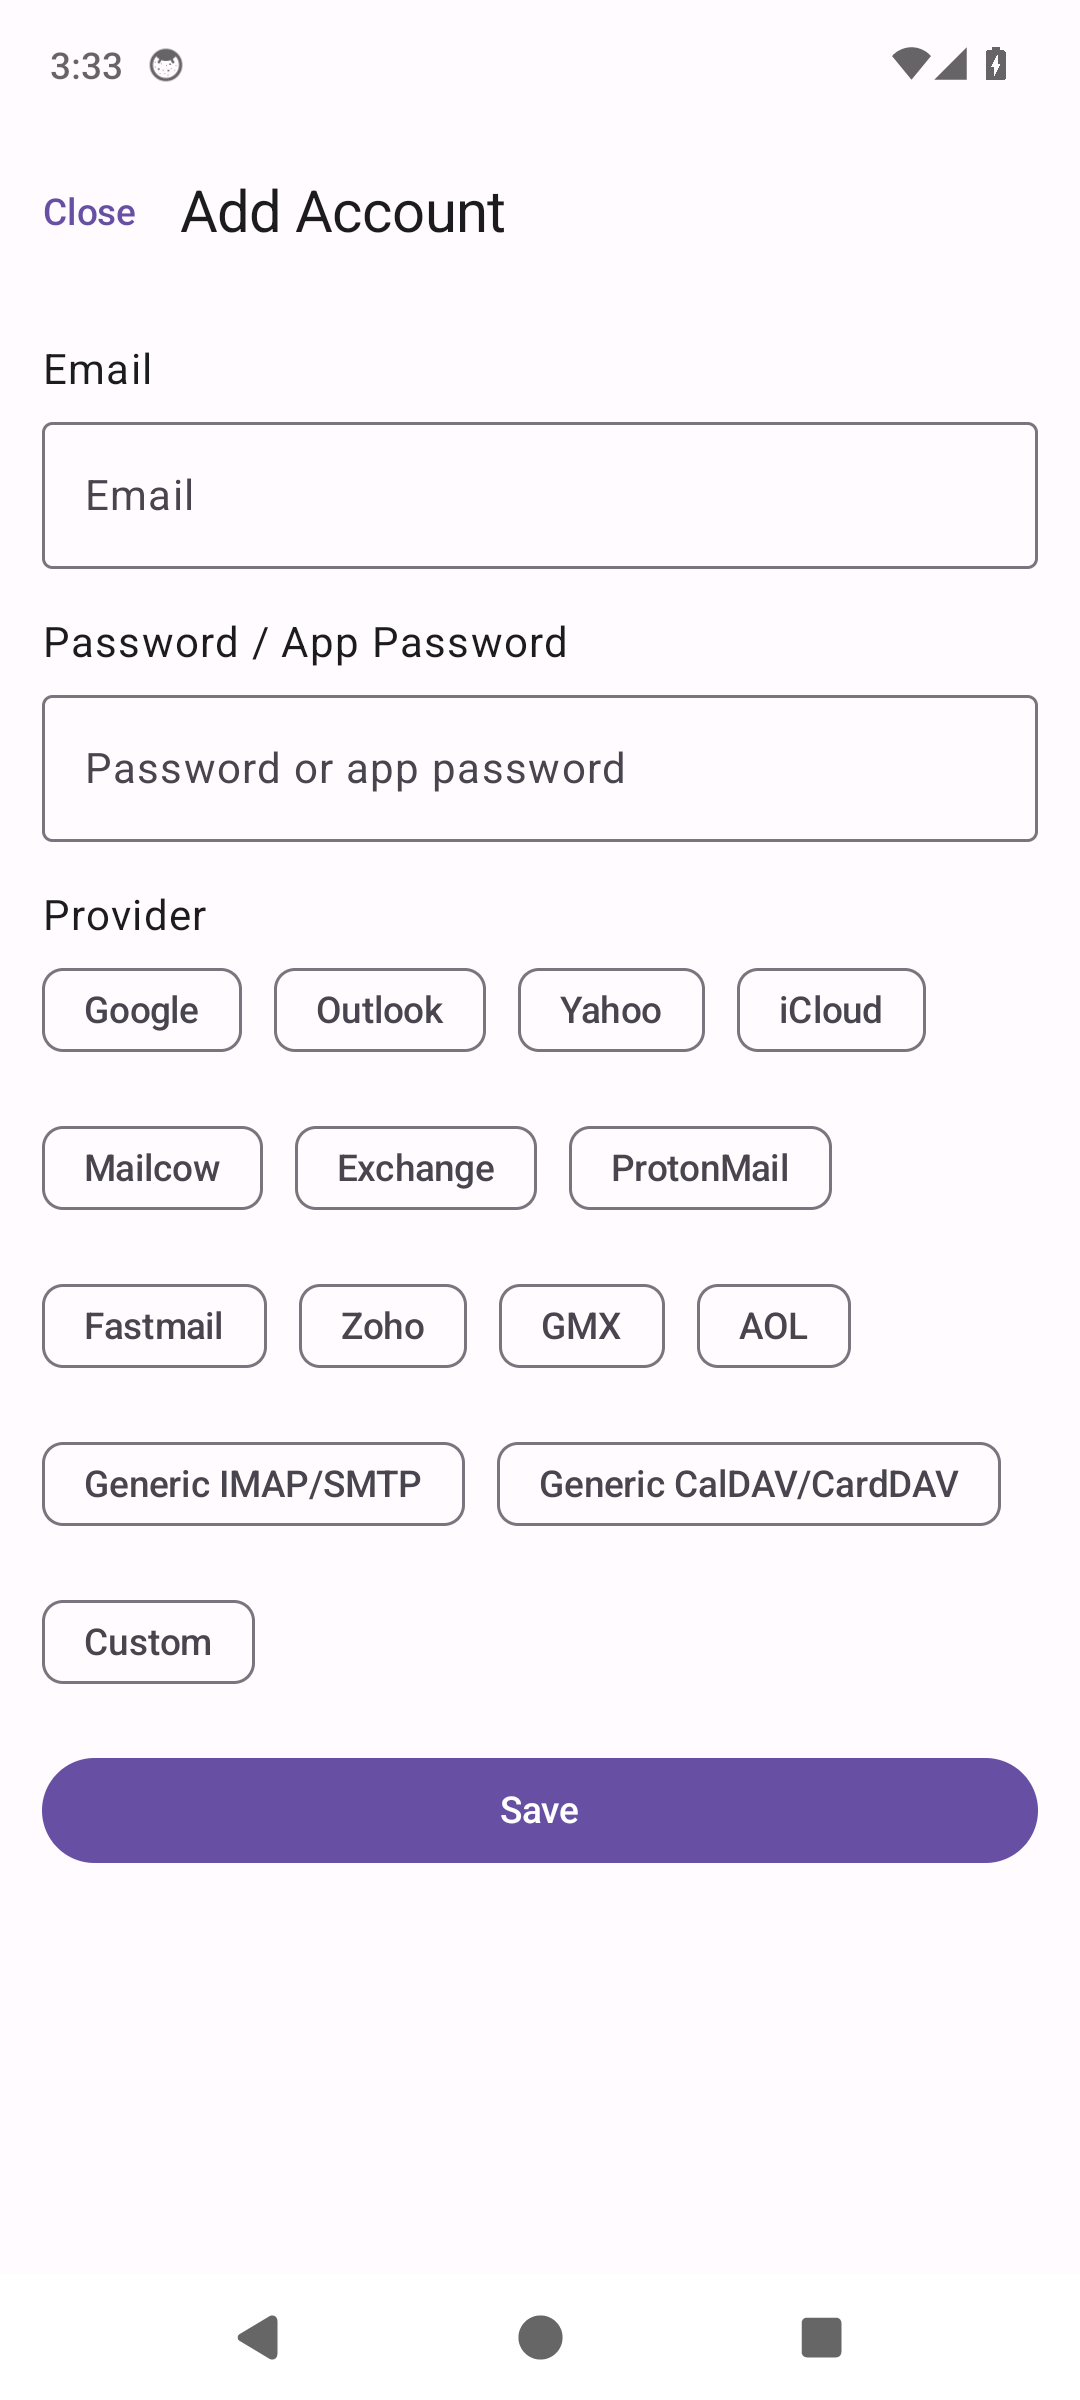
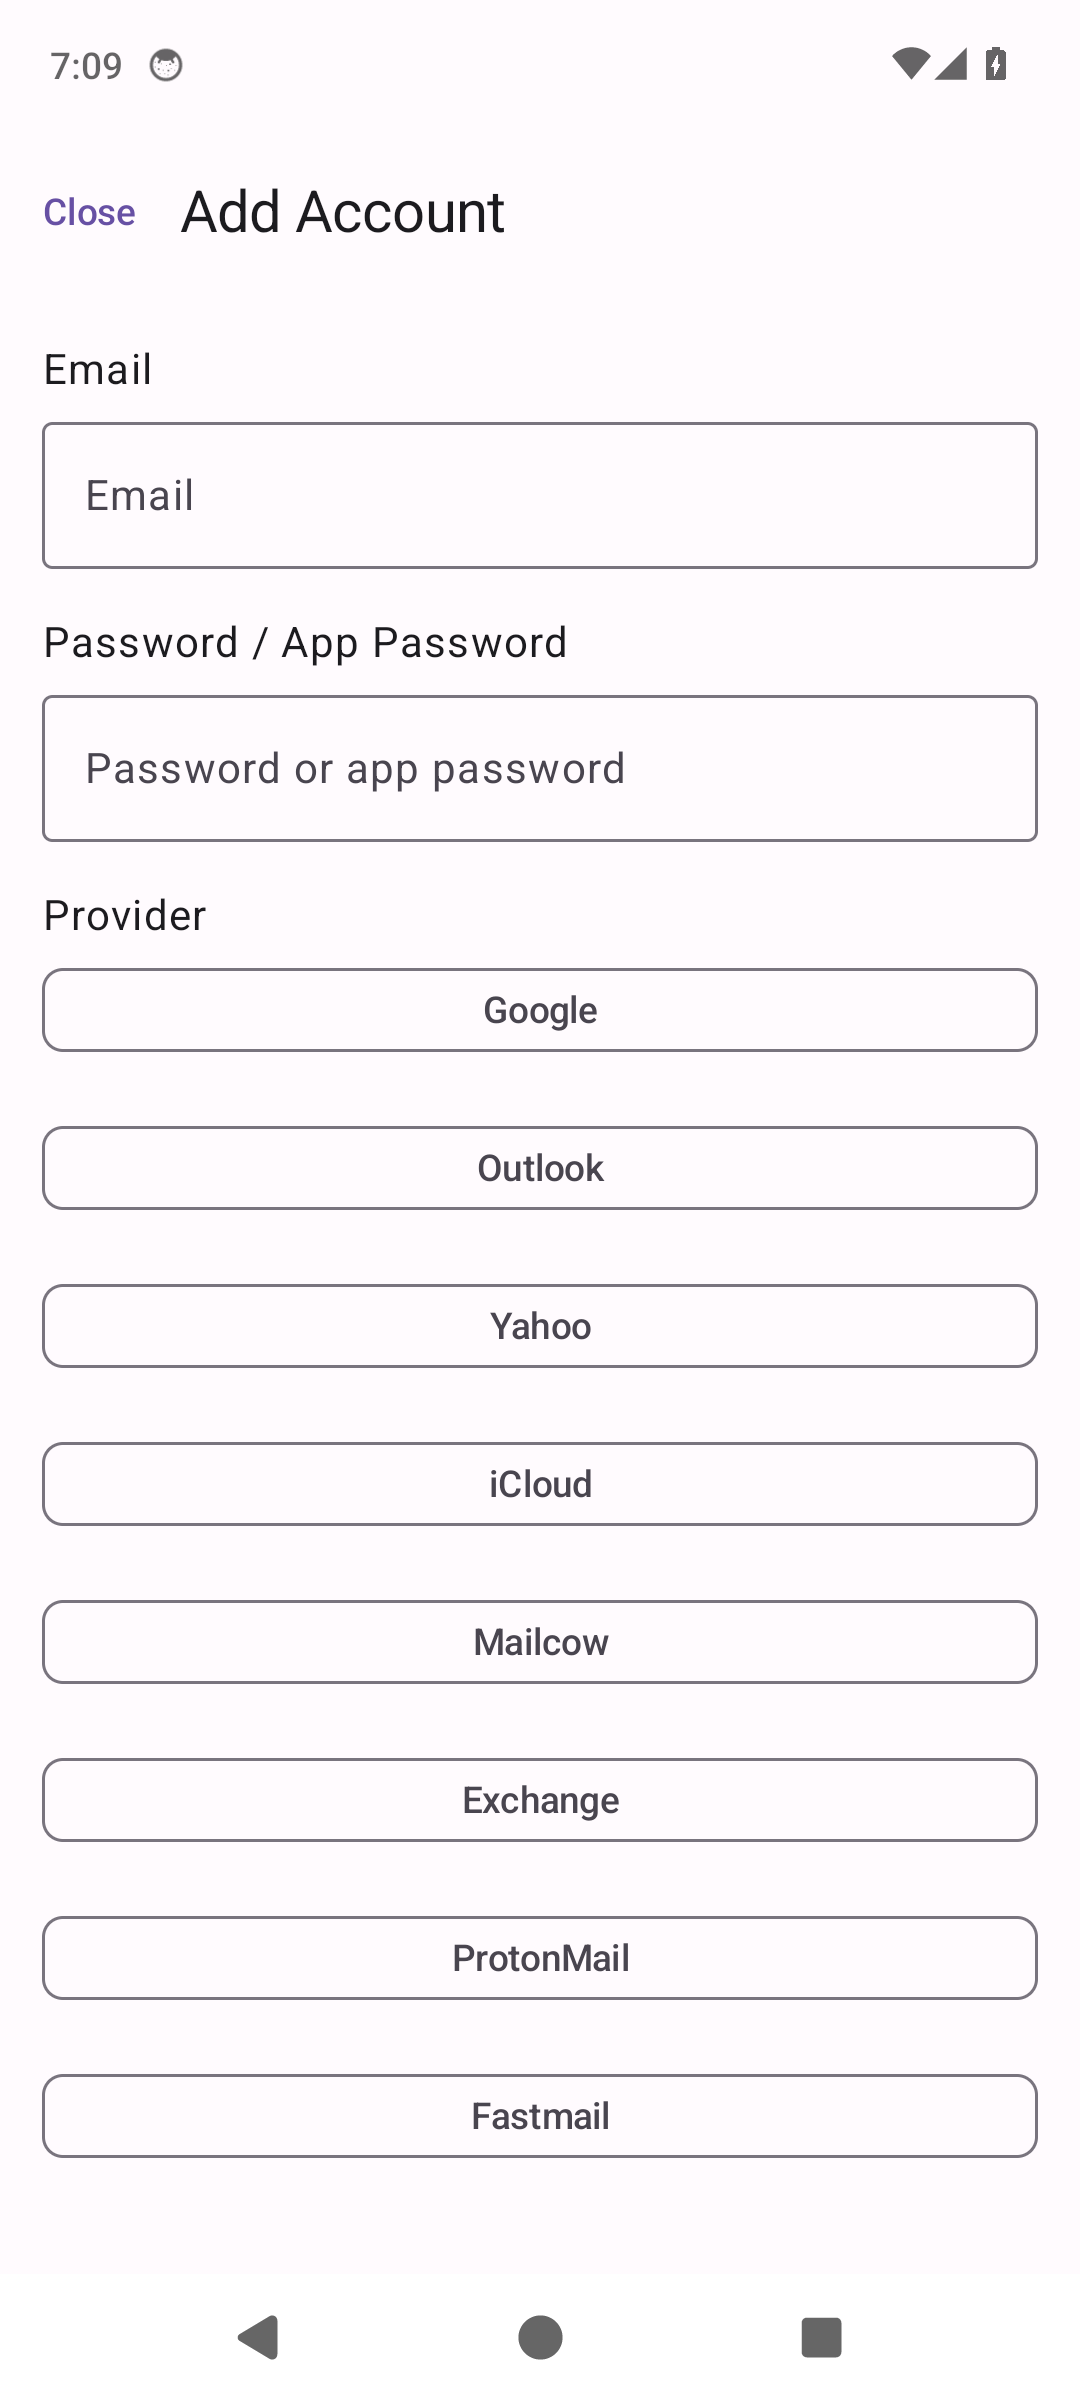
ui(polish): center chip/button text; uniform provider chip grid
- Provider FilterChip labels centered + uniform min-width (112.dp) -> tidy grid.
- Task filter chip labels centered.
- 'Server settings found' banner text centered.
Verified via ScreenshotGalleryTest (uc_05, uc_08, uc_12) on emulator-5556.

diff --git a/app/src/main/java/com/unifiedcomms/ui/main/AddAccountScreen.kt b/app/src/main/java/com/unifiedcomms/ui/main/AddAccountScreen.kt
@@ -6,11 +6,13 @@ import androidx.compose.foundation.background
 import androidx.compose.foundation.border
 import androidx.compose.foundation.clickable
 import androidx.compose.foundation.layout.Arrangement
+import androidx.compose.foundation.layout.Box
 import androidx.compose.foundation.layout.Column
 import androidx.compose.foundation.layout.ExperimentalLayoutApi
 import androidx.compose.foundation.layout.FlowRow
 import androidx.compose.foundation.layout.Row
 import androidx.compose.foundation.layout.Spacer
+import androidx.compose.foundation.layout.defaultMinSize
 import androidx.compose.foundation.layout.fillMaxSize
 import androidx.compose.foundation.layout.fillMaxWidth
 import androidx.compose.foundation.layout.height
@@ -49,6 +51,7 @@ import androidx.compose.ui.text.font.FontWeight
 import androidx.compose.ui.text.input.ImeAction
 import androidx.compose.ui.text.input.KeyboardType
 import androidx.compose.ui.text.input.PasswordVisualTransformation
+import androidx.compose.ui.text.style.TextAlign
 import androidx.compose.ui.unit.dp
 import androidx.compose.ui.unit.sp
 import com.unifiedcomms.data.model.Account
@@ -225,7 +228,12 @@ fun AddAccountScreen(
                                 // manual/IMAP: autodiscover from the email (or reveal advanced)
                                 runDiscovery()
                             },
-                            label = { androidx.compose.material3.Text(p.label) }
+                            modifier = Modifier.defaultMinSize(minWidth = 112.dp),
+                            label = {
+                                Box(Modifier.fillMaxWidth(), contentAlignment = Alignment.Center) {
+                                    androidx.compose.material3.Text(p.label, textAlign = TextAlign.Center)
+                                }
+                            }
                         )
                     }
                 }
@@ -243,8 +251,9 @@ fun AddAccountScreen(
                     ) {
                         Text(
                             text = "Server settings found automatically.",
-                            modifier = Modifier.padding(16.dp),
-                            fontWeight = FontWeight.Bold
+                            modifier = Modifier.padding(16.dp).fillMaxWidth(),
+                            fontWeight = FontWeight.Bold,
+                            textAlign = TextAlign.Center
                         )
                     }
                     Spacer(modifier = Modifier.height(16.dp))

diff --git a/app/src/main/java/com/unifiedcomms/ui/main/TasksScreen.kt b/app/src/main/java/com/unifiedcomms/ui/main/TasksScreen.kt
@@ -55,6 +55,7 @@ import androidx.compose.ui.Alignment
 import androidx.compose.ui.Modifier
 import androidx.compose.ui.graphics.Color
 import androidx.compose.ui.text.font.FontWeight
+import androidx.compose.ui.text.style.TextAlign
 import androidx.compose.ui.text.style.TextOverflow
 import androidx.compose.ui.unit.dp
 import androidx.compose.ui.unit.sp
@@ -118,7 +119,11 @@ fun TasksScreen(
                         FilterChip(
                             onClick = { filter = f },
                             selected = filter == f,
-                            label = { Text(f.label) }
+                            label = {
+                                Box(Modifier.fillMaxWidth(), contentAlignment = Alignment.Center) {
+                                    Text(f.label, textAlign = TextAlign.Center)
+                                }
+                            }
                         )
                     }
                 }

diff --git a/HANDOFF.md b/HANDOFF.md
@@ -48,6 +48,9 @@ export ANDROID_HOME=/home/keith/Android/Sdk
   - EmailScreen has a 'No emails yet' empty state (was a blank list).
   - DemoDataSeeder seeds 3 demo emails so Unified Inbox / folder views show real content.
   - Tasks filter chips use FlowRow (wrap) — 'Overdue' no longer clipped at screen edge.
+  - Add Account provider chips: labels centered in each chip + uniform min-width, so the
+    grid renders as a tidy uniform list (no jagged uneven wrap). Task filter chip labels
+    centered too. 'Server settings found' banner text centered.
   - ScreenshotGalleryTest harness: Add Account reached via Settings (top-bar Add removed);
     Search captured while app foreground (kills coordinate flakiness). uc_01..uc_13 all verified.
   - `AutodiscoverTest` (live net) PASSED: Gmail (IMAP/SMTP + DAV), Outlook, bogus→null.